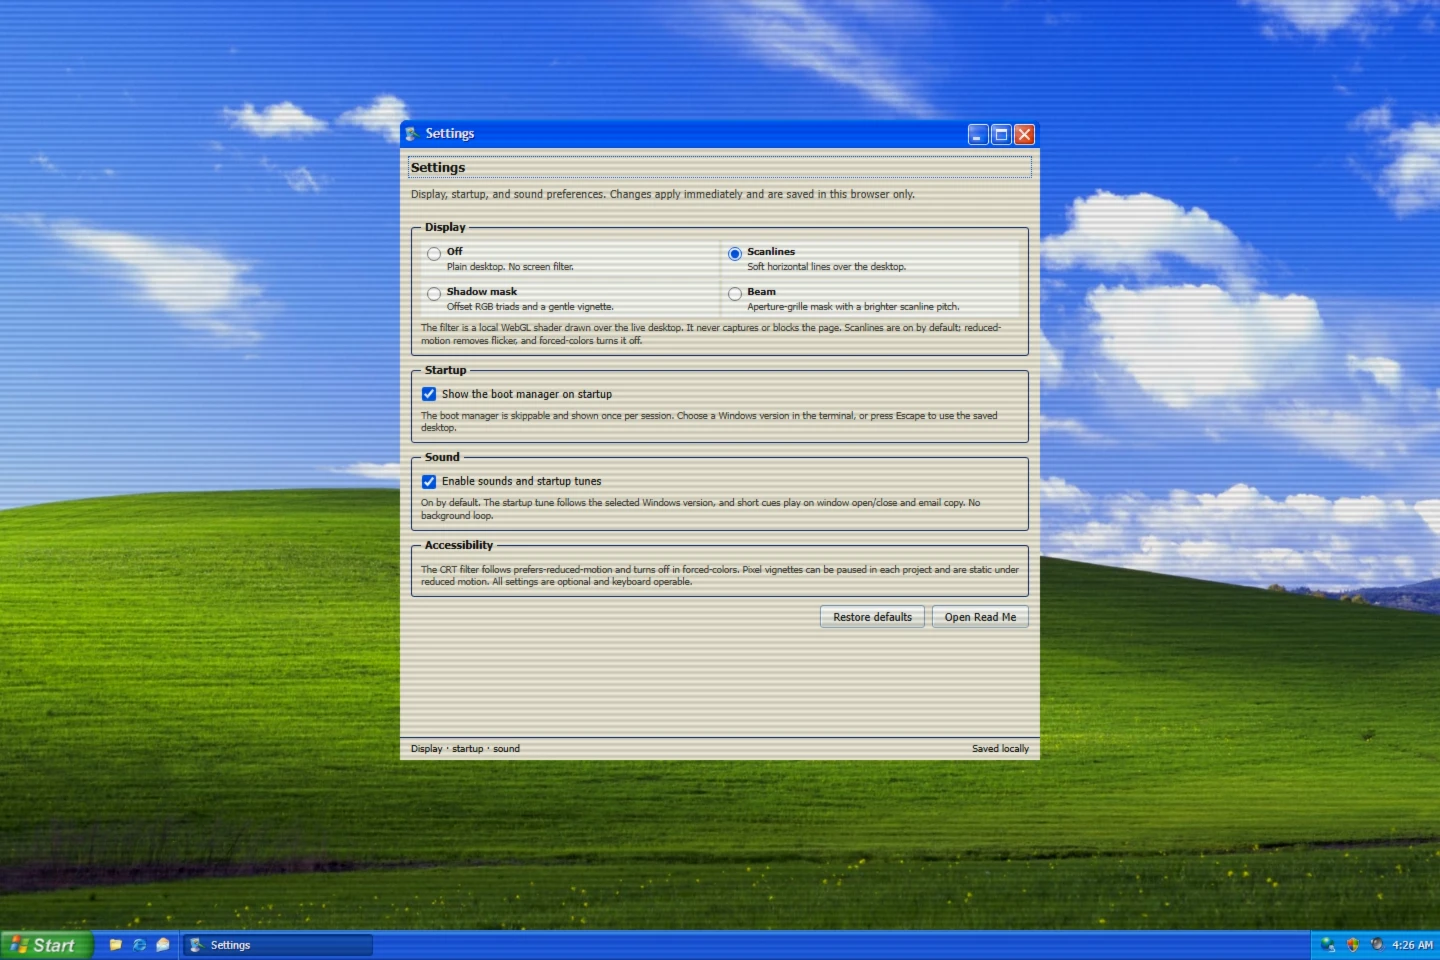
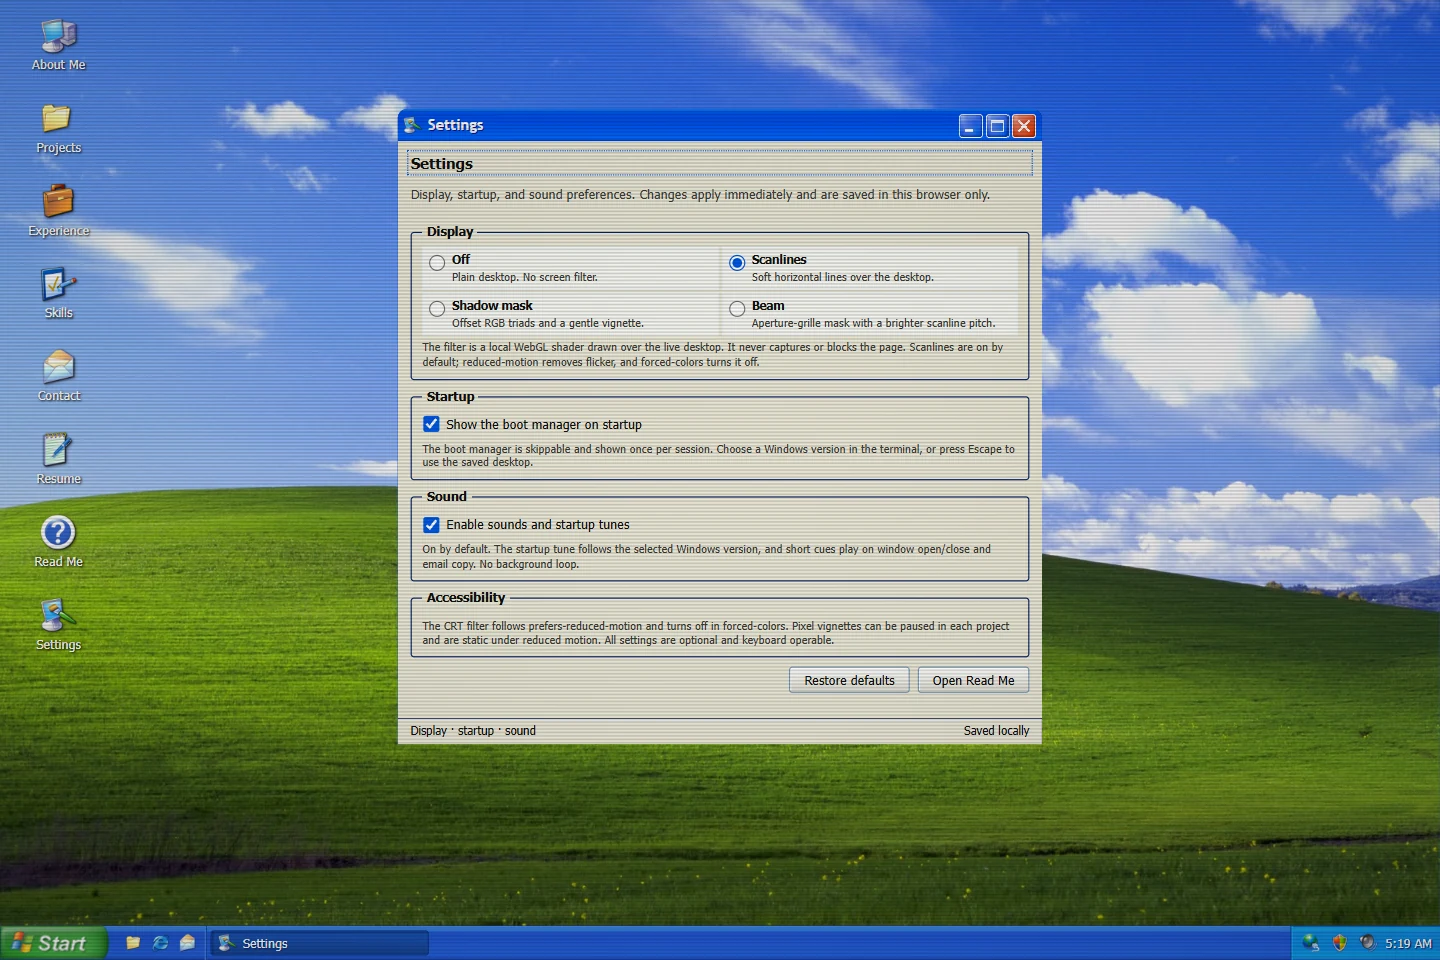
docs: add harness compatibility and XP desktop hero
Document install roots and invocation for popular Agent Skills harnesses with docs-only brand icons, and restore the XP desktop icon column in the README hero.

diff --git a/README.md b/README.md
@@ -1,8 +1,8 @@
 # retro-windows-ui
 
-![Windows XP desktop with the authentic Luna theme and Bliss wallpaper, showing the Settings window with soft scanlines](docs/media/showcase/xp.webp)
+![Windows XP desktop with authentic Bliss wallpaper, the desktop icon column, and the Settings window under soft scanlines](docs/media/showcase/xp.webp)
 
-A portable Agent Skill for designing, building, retrofitting, and reviewing retro Windows interfaces. It combines era-specific design guidance with complete original offline asset families, semantic tokens, a default Windows desktop mockup, startup-screen examples, an interactive gallery, and opt-in UI sound effects.
+A portable Agent Skill for designing, building, retrofitting, and reviewing retro Windows interfaces. It combines era-specific design guidance with complete original offline asset families, semantic tokens, a default Windows desktop mockup, startup-screen examples, an interactive gallery, and opt-in UI sound effects. It follows the open Agent Skills standard, so the same folder runs in Claude Code, Codex, Antigravity, OpenCode, Pi, DeepSeek Harness, and Qoder.
 
 The installable skill is original and offline. The showcase stills in this README come from a separate reference build that uses the portfolio's user-supplied Microsoft artwork; that media is documentation only and is not included in the package.
 
@@ -31,7 +31,7 @@ For an exact fan recreation, [references/asset-sourcing.md](skills/retro-windows
 
 The bundled neutral [desktop mockup](skills/retro-windows-ui/assets/desktop/index.html) remains the complete shell example that ships with the skill. The stills below come from the separate reference build used for this project's portfolio, which swaps in authentic Microsoft themes and wallpapers from the portfolio. They document the target fidelity; no Microsoft media is packaged.
 
-Desktop icons are hidden so the captures stay neutral, and soft scanlines are applied for presentation.
+The hero keeps the XP desktop icon column visible. The six-era comparison captures hide desktop icons so the themes stay neutral; soft scanlines are applied throughout.
 
 | Windows 95 · 1995 | Windows 98 · 1998 |
 | :---: | :---: |
@@ -39,7 +39,7 @@ Desktop icons are hidden so the captures stay neutral, and soft scanlines are ap
 | **Windows 2000 · 2000** | **Windows Me · 2000** |
 | [![Windows 2000 desktop with authentic wallpaper and Settings window](docs/media/showcase/win2000.webp)](docs/media/showcase/win2000.webp) | [![Windows Me desktop with authentic wallpaper and Settings window](docs/media/showcase/winme.webp)](docs/media/showcase/winme.webp) |
 | **Windows XP · 2001** | **Windows 7 · 2009** |
-| [![Windows XP desktop with authentic Bliss wallpaper and Settings window](docs/media/showcase/xp.webp)](docs/media/showcase/xp.webp) | [![Windows 7 desktop with authentic wallpaper and Settings window](docs/media/showcase/win7.webp)](docs/media/showcase/win7.webp) |
+| [![Windows XP desktop with authentic Bliss wallpaper and Settings window](docs/media/showcase/xp-neutral.webp)](docs/media/showcase/xp-neutral.webp) | [![Windows 7 desktop with authentic wallpaper and Settings window](docs/media/showcase/win7.webp)](docs/media/showcase/win7.webp) |
 
 The skill keeps these eras distinct. Its installable runtime does not bundle Microsoft fonts, logos, extracted icons, wallpapers, or system sounds, and it is not affiliated with or endorsed by Microsoft.
 
@@ -54,19 +54,44 @@ skills/retro-windows-ui/   Portable runtime skill
 evals/                     Agent behavior evaluation scenarios
 tests/                     Deterministic repository tests
 tools/                     Asset generation, packaging, and browser QA
-docs/media/                Documentation-only showcase stills
+docs/media/                Documentation-only showcase stills and harness icons
 ```
 
 ## Use the skill
 
-Install the unchanged `skills/retro-windows-ui` directory in the desired agent skills folder:
+The skill follows the open [Agent Skills](https://agentskills.io/specification) layout, so the same `retro-windows-ui/` folder runs unchanged in every harness below.
 
-- Qoder project: `.qoder/skills/retro-windows-ui/`
-- Qoder user: `~/.qoder/skills/retro-windows-ui/`
-- Claude Code project: `.claude/skills/retro-windows-ui/`
-- Claude Code user: `~/.claude/skills/retro-windows-ui/`
+<p align="center">
+  <img src="docs/media/harnesses/claude-code.svg" width="48" height="48" alt="Claude Code">
+  <img src="docs/media/harnesses/codex.svg" width="48" height="48" alt="Codex">
+  <img src="docs/media/harnesses/antigravity.svg" width="48" height="48" alt="Antigravity">
+  <img src="docs/media/harnesses/opencode.svg" width="48" height="48" alt="OpenCode">
+  <img src="docs/media/harnesses/pi.svg" width="48" height="48" alt="Pi">
+  <img src="docs/media/harnesses/deepseek-harness.svg" width="48" height="48" alt="DeepSeek Harness">
+  <img src="docs/media/harnesses/qoder.svg" width="48" height="48" alt="Qoder">
+</p>
 
-In Qoder, run `/skills reload`, verify with `/skills list`, and invoke `/retro-windows-ui` or ask naturally, for example:
+| Harness | Project install | Personal install |
+| --- | --- | --- |
+| [Claude Code](https://code.claude.com/docs/en/skills) | `.claude/skills/` | `~/.claude/skills/` |
+| [Codex](https://learn.chatgpt.com/docs/build-skills) | `.agents/skills/` | `~/.agents/skills/` |
+| [Antigravity](https://antigravity.google/docs/skills/) | `.agents/skills/` | `~/.gemini/config/skills/` |
+| [OpenCode](https://opencode.ai/docs/skills/) | `.opencode/skills/` | `~/.config/opencode/skills/` |
+| [Pi](https://pi.dev/docs/latest/skills) | `.pi/skills/` | `~/.pi/agent/skills/` |
+| [DeepSeek Harness](https://github.com/deepseek-ai/deepseek-harness) | `.dsh/skills/` or `.agents/skills/` | `~/.dsh/skills/` or `~/.agents/skills/` |
+| [Qoder](https://docs.qoder.com/extensions/skills) | `.qoder/skills/` | `~/.qoder/skills/` |
+
+Other Agent Skills-compatible harnesses can load the same folder from their own skills root. Codex, Antigravity, OpenCode, Pi, and DeepSeek Harness also read a project `.agents/skills/` root, so one copy there can serve all five.
+
+Clone once and copy the whole `retro-windows-ui` folder into the destination:
+
+```bash
+git clone --depth 1 https://github.com/rupanshsoni/retro-windows-ui.git
+mkdir -p ~/.claude/skills
+cp -R retro-windows-ui/skills/retro-windows-ui ~/.claude/skills/
+```
+
+Start a new session after copying if your harness only scans for skills at launch. In Qoder, run `/skills reload` and verify with `/skills list`; in Pi, run `/reload`. Invoke with `/retro-windows-ui` in Claude Code, Antigravity, and Qoder, `/skill:retro-windows-ui` in Pi, `$retro-windows-ui` in Codex, or simply describe the task and let OpenCode or DeepSeek Harness select the skill. For example:
 
 > Build an accessible XP Luna file-transfer dialog with progress, cancel, and error states.
 
@@ -138,4 +163,4 @@ Sound is muted until explicit user opt-in. Every cue has visible feedback, and m
 
 ## License
 
-Repository code and documentation are MIT licensed. Original bundled assets are CC0-1.0; see `skills/retro-windows-ui/assets/LICENSE.txt`. README showcase stills contain Microsoft-derived reference artwork and are documentation only; they are not part of the installable skill or the CC0 asset license. Historical source documents remain linked references under their respective terms.
+Repository code and documentation are MIT licensed. Original bundled assets are CC0-1.0; see `skills/retro-windows-ui/assets/LICENSE.txt`. README showcase stills contain Microsoft-derived reference artwork and are documentation only; they are not part of the installable skill or the CC0 asset license. Harness compatibility icons are adapted from [LobeHub Icons](https://github.com/lobehub/lobe-icons) under MIT; see [attribution](docs/media/harnesses/ATTRIBUTION.md). They remain trademarks of their respective owners, are documentation only, and are excluded from the packaged skill. Historical source documents remain linked references under their respective terms.

diff --git a/docs/media/harnesses/ATTRIBUTION.md b/docs/media/harnesses/ATTRIBUTION.md
@@ -1,0 +1,7 @@
+# Harness compatibility icons
+
+The SVGs in this directory are adapted from [LobeHub Icons](https://github.com/lobehub/lobe-icons), used under the MIT license in `LICENSE-lobe-icons.txt`. Each mark is placed on a 64×64 neutral tile for consistent presentation.
+
+The marks identify compatibility with Qoder, Claude Code, Codex, Antigravity, OpenCode, Pi, and DeepSeek Harness. They are trademarks of their respective owners; inclusion here does not imply endorsement. These files are documentation only and are not included in the packaged skill.
+
+Retrieved 2026-10-29 from `@lobehub/icons-static-svg`.
